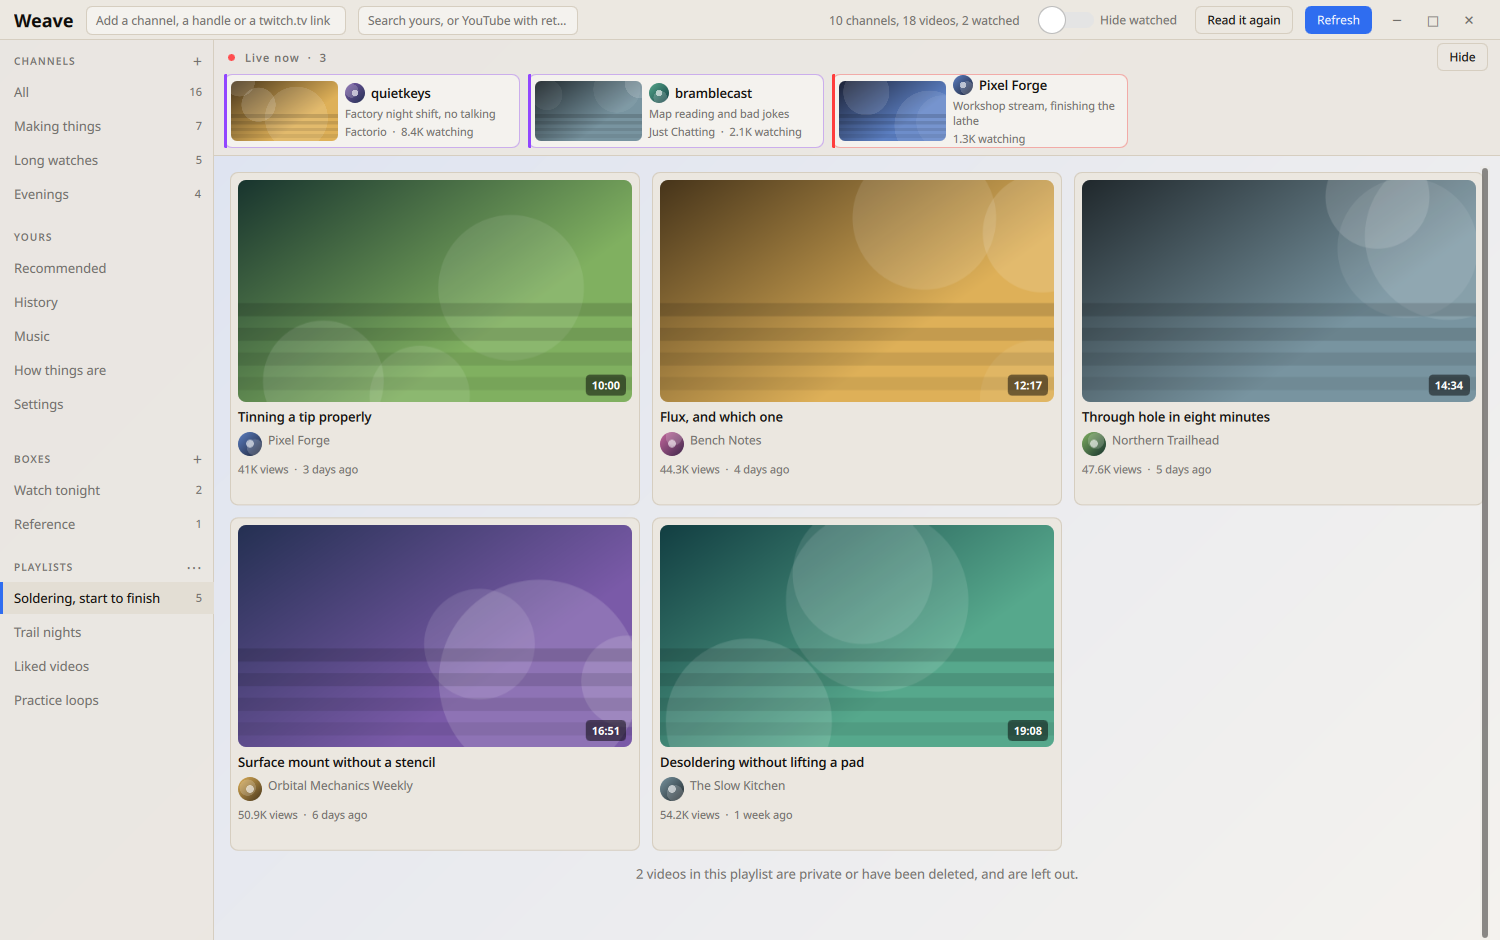
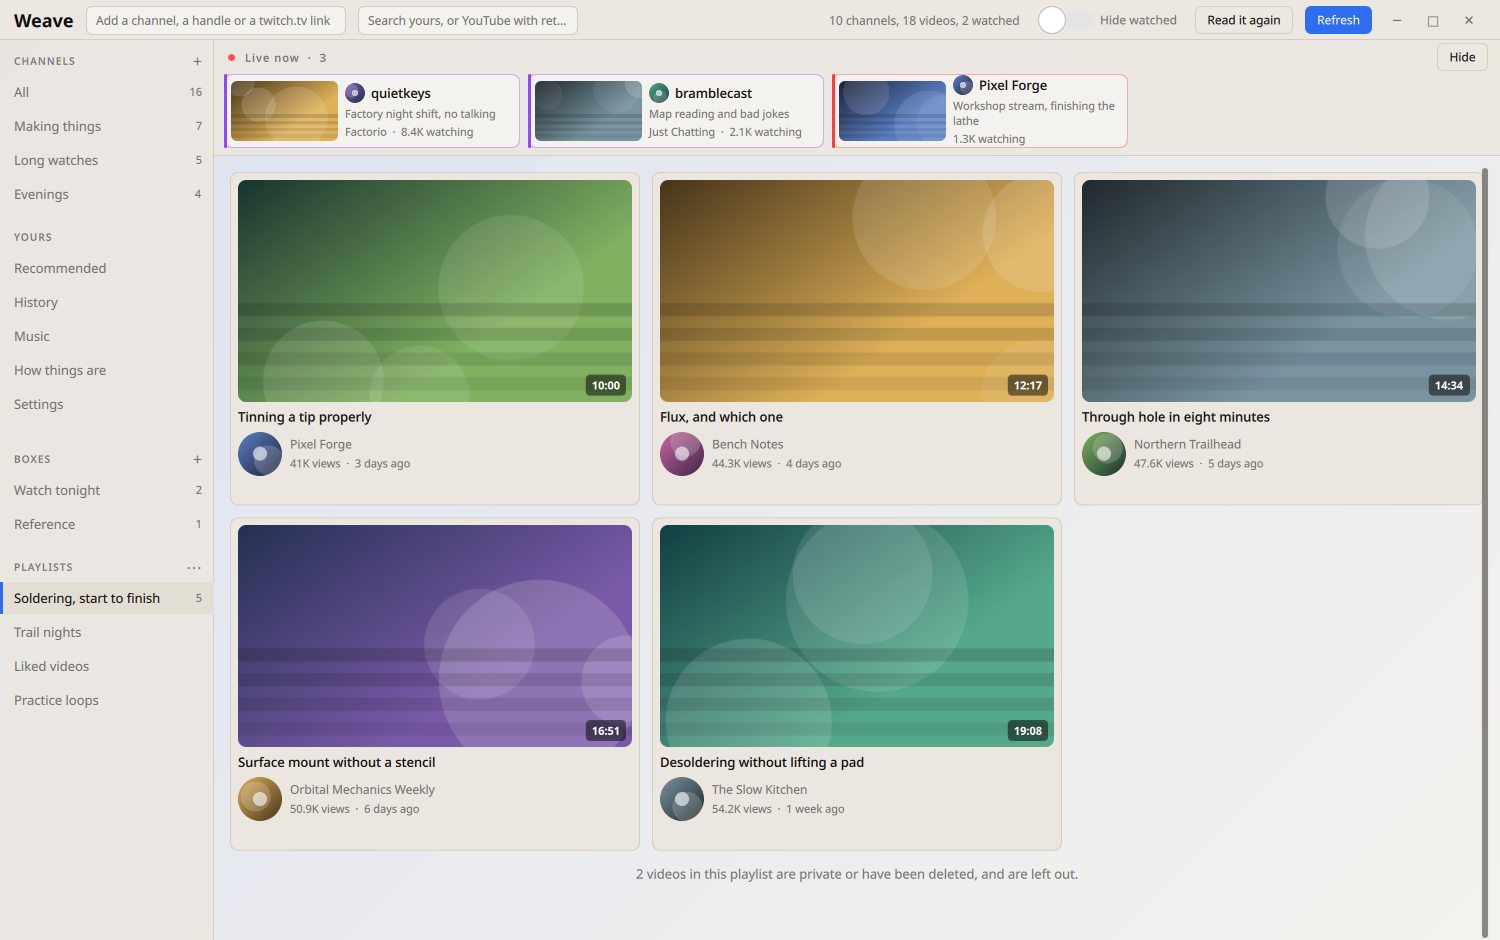
Give a card a face, and say when an announced stream begins
The channel picture was 24 across, small enough that a card was read by
its thumbnail alone. It is 44 now and stands beside both lines rather
than only the name, with the channel on the first and the counts and the
date on the second. The card is the same height it was, since the picture
is as tall as the two lines it replaced plus the space that was between
them.

An announced stream showed the day the announcement went up, which
answers nothing anybody asked. Its second line now carries the local time
it begins, worked out on the clock the machine is set to, from today at
half eight through a named day this week to a date with the year on it.
The badge still says how long there is to wait, since that is a different
question.

The screenshots in the readme are taken again for the new card.

diff --git a/weave/qml/VideoCard.qml b/weave/qml/VideoCard.qml
@@ -19,6 +19,10 @@ Rectangle {
     property bool isUpcoming: false
     property bool canListen: true
     property string scheduledText: ""
+    // Where an announced stream begins, on the reader's own clock. It takes
+    // the place of the age, which for one of these is the day somebody put the
+    // announcement up and answers nothing anybody asked.
+    property string startsText: ""
     property real progress: 0
 
     signal playRequested()
@@ -169,47 +173,70 @@ Rectangle {
         }
 
         // The channel line is its own click target, so a left click here opens
-        // the channel page rather than starting the video.
+        // the channel page rather than starting the video. The picture stands
+        // as tall as both lines beside it, which is what gives a card a face
+        // to recognise from across the grid.
         Row {
             id: channelRow
             width: parent.width
-            spacing: 6
-
-            HoverHandler { id: channelHover }
-            TapHandler {
-                gesturePolicy: TapHandler.ReleaseWithinBounds
-                onTapped: card.channelRequested()
-            }
+            spacing: 8
 
             RoundedImage {
-                width: 24
-                height: 24
+                id: avatar
+                width: 44
+                height: 44
                 circle: true
                 visible: card.channelAvatar !== ""
                 source: card.channelAvatar
+
+                HoverHandler { id: avatarHover }
+                TapHandler {
+                    gesturePolicy: TapHandler.ReleaseWithinBounds
+                    onTapped: card.channelRequested()
+                }
             }
 
-            Text {
-                width: channelRow.width - (card.channelAvatar !== "" ? 30 : 0)
-                text: card.channelTitle
-                color: channelHover.hovered ? Theme.colors.text : Theme.colors.textMuted
-                font.pixelSize: 12
-                font.underline: channelHover.hovered
-                elide: Text.ElideRight
-            }
-        }
+            Column {
+                anchors.verticalCenter: parent.verticalCenter
+                width: channelRow.width
+                       - (card.channelAvatar !== "" ? avatar.width + channelRow.spacing : 0)
+                spacing: 3
 
-        Text {
-            width: parent.width
-            color: Theme.colors.textMuted
-            font.pixelSize: 11
-            elide: Text.ElideRight
-            text: {
-                var parts = []
-                if (card.viewsText !== "") parts.push(card.viewsText + " views")
-                if (card.likesText !== "") parts.push(card.likesText + " likes")
-                if (card.ageText !== "") parts.push(card.ageText)
-                return parts.join("  ·  ")
+                Text {
+                    width: parent.width
+                    text: card.channelTitle
+                    color: (channelHover.hovered || avatarHover.hovered)
+                           ? Theme.colors.text : Theme.colors.textMuted
+                    font.pixelSize: 12
+                    font.underline: channelHover.hovered || avatarHover.hovered
+                    elide: Text.ElideRight
+
+                    HoverHandler { id: channelHover }
+                    TapHandler {
+                        gesturePolicy: TapHandler.ReleaseWithinBounds
+                        onTapped: card.channelRequested()
+                    }
+                }
+
+                Text {
+                    width: parent.width
+                    color: Theme.colors.textMuted
+                    font.pixelSize: 11
+                    elide: Text.ElideRight
+                    text: {
+                        var parts = []
+                        if (card.viewsText !== "") parts.push(card.viewsText + " views")
+                        if (card.likesText !== "") parts.push(card.likesText + " likes")
+                        // The day it starts, or for anything else the day it
+                        // was published. Never both, since a card has one line
+                        // for it.
+                        if (card.isUpcoming && card.startsText !== "")
+                            parts.push(card.startsText)
+                        else if (card.ageText !== "")
+                            parts.push(card.ageText)
+                        return parts.join("  ·  ")
+                    }
+                }
             }
         }
     }

diff --git a/weave/qml/Main.qml b/weave/qml/Main.qml
@@ -959,6 +959,7 @@ ApplicationWindow {
                 isLive: model.isLive
                 isUpcoming: model.isUpcoming
                 scheduledText: model.scheduledText
+                startsText: model.startsText
                 // Where a press already listens, the headphone offers nothing.
                 canListen: !App.pressIsMusic
                 progress: model.progress

diff --git a/tests/test_format.py b/tests/test_format.py
@@ -1,3 +1,5 @@
+import os
+import time
 import unittest
 
 from weave import format as fmt
@@ -50,6 +52,59 @@ class UpcomingText(unittest.TestCase):
         self.assertEqual(self.upcoming(60), "Starts in 1 minute")
         self.assertEqual(self.upcoming(3600), "Starts in 1 hour")
         self.assertEqual(self.upcoming(86400), "Starts in 1 day")
+
+
+class StartTimeText(unittest.TestCase):
+    """The clock an announced stream begins on.
+
+    The zone is pinned here, since the point of the function is that it
+    answers in whatever zone the machine is set to, and a test that ran in
+    the local one would pass anywhere and prove nothing.
+    """
+
+    # Friday 15 January 2027, 12:00 UTC.
+    NOON = 1_800_014_400
+
+    def setUp(self):
+        self._was = os.environ.get("TZ")
+        os.environ["TZ"] = "UTC"
+        time.tzset()
+        self.addCleanup(self._restore)
+
+    def _restore(self):
+        if self._was is None:
+            os.environ.pop("TZ", None)
+        else:
+            os.environ["TZ"] = self._was
+        time.tzset()
+
+    def starts(self, seconds_from_now):
+        return fmt.start_time_text(self.NOON + seconds_from_now, now=self.NOON)
+
+    def test_nothing_scheduled_is_empty(self):
+        self.assertEqual(fmt.start_time_text(None), "")
+
+    def test_later_today_and_tomorrow(self):
+        self.assertEqual(self.starts(6 * 3600), "today at 18:00")
+        self.assertEqual(self.starts(20 * 3600), "tomorrow at 08:00")
+
+    def test_a_day_this_week_is_named(self):
+        self.assertEqual(self.starts(3 * 86400), "Monday at 12:00")
+
+    def test_further_off_carries_the_date(self):
+        self.assertEqual(self.starts(30 * 86400), "14 Feb at 12:00")
+
+    def test_another_year_carries_the_year(self):
+        self.assertEqual(self.starts(400 * 86400), "19 Feb 2028 at 12:00")
+
+    def test_the_hour_is_the_local_one(self):
+        os.environ["TZ"] = "Europe/Berlin"
+        time.tzset()
+        # An hour ahead of UTC in January, so noon there is 13:00 here.
+        self.assertEqual(self.starts(0), "today at 13:00")
+
+    def test_a_time_already_past_still_reads_as_a_date(self):
+        self.assertEqual(self.starts(-10 * 86400), "5 Jan at 12:00")
 
 
 class CountText(unittest.TestCase):

diff --git a/weave/format.py b/weave/format.py
@@ -4,6 +4,12 @@ every rounding decision in one place."""
 from __future__ import annotations
 
 import time
+from datetime import date
+
+_MONTHS = ("Jan", "Feb", "Mar", "Apr", "May", "Jun",
+           "Jul", "Aug", "Sep", "Oct", "Nov", "Dec")
+_WEEKDAYS = ("Monday", "Tuesday", "Wednesday", "Thursday", "Friday",
+             "Saturday", "Sunday")
 
 _AGE_STEPS = (
     (60, 1, "second"),
@@ -49,6 +55,35 @@ def upcoming_text(scheduled_at: int | None, now: int | None = None) -> str:
             value = delta // divisor
             return f"Starts in {value} {unit}{'s' if value != 1 else ''}"
     return "Starts later"
+
+
+def start_time_text(scheduled_at: int | None, now: int | None = None) -> str:
+    """When an announced stream begins, on the clock this machine is set to.
+
+    The badge already says how long there is to wait, which answers a different
+    question from the one somebody deciding whether to be there asks. So this
+    is the wall clock rather than another relative phrase, and it is local
+    because a time in anybody else's zone is a puzzle rather than an answer.
+    """
+    if not scheduled_at:
+        return ""
+    when = time.localtime(int(scheduled_at))
+    today = time.localtime(int(time.time()) if now is None else int(now))
+    clock = f"{when.tm_hour:02d}:{when.tm_min:02d}"
+    # Calendar days apart, not chunks of 24 hours. A stream at nine tomorrow
+    # morning is tomorrow whether it is now noon or midnight.
+    days = (date(when.tm_year, when.tm_mon, when.tm_mday)
+            - date(today.tm_year, today.tm_mon, today.tm_mday)).days
+    if days == 0:
+        return f"today at {clock}"
+    if days == 1:
+        return f"tomorrow at {clock}"
+    if 1 < days < 7:
+        return f"{_WEEKDAYS[when.tm_wday]} at {clock}"
+    month = _MONTHS[when.tm_mon - 1]
+    if when.tm_year != today.tm_year:
+        return f"{when.tm_mday} {month} {when.tm_year} at {clock}"
+    return f"{when.tm_mday} {month} at {clock}"
 
 
 def count_text(value: int | None) -> str:

diff --git a/weave/ui/feed_model.py b/weave/ui/feed_model.py
@@ -18,7 +18,7 @@ from ..sources import progress as mpv_progress
 ROLES = (
     "key", "title", "channelKey", "channelTitle", "channelAvatar", "thumbnail", "ageText",
     "durationText", "viewsText", "likesText", "watched", "url", "isLive",
-    "isUpcoming", "scheduledText", "progress",
+    "isUpcoming", "scheduledText", "startsText", "progress",
 )
 
 
@@ -116,6 +116,10 @@ class FeedModel(QAbstractListModel):
             # starts instead of a duration and the play path refuses it.
             "isUpcoming": is_upcoming,
             "scheduledText": fmt.upcoming_text(scheduled_at) if is_upcoming else "",
+            # An announced stream has no age worth showing, since when it was
+            # announced says nothing about when to turn up. The card puts this
+            # where the age of an ordinary video goes.
+            "startsText": fmt.start_time_text(scheduled_at) if is_upcoming else "",
             "progress": 0.0,
         }
 

diff --git a/tests/test_feed_model.py b/tests/test_feed_model.py
@@ -93,6 +93,9 @@ class Showing(unittest.TestCase):
         built = self.model.row_at(0)
         self.assertTrue(built["isUpcoming"])
         self.assertNotEqual(built["scheduledText"], "")
+        # The card puts this where the age of an ordinary video goes, so an
+        # announced stream that carries no clock time would leave a gap.
+        self.assertIn(" at ", built["startsText"])
 
 
 if __name__ == "__main__":
